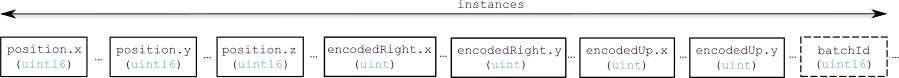
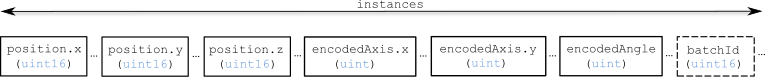
Axis angle changes

Changed region(s): [[0.0, 0.4416, 1.0, 1.0], [0.0, 0.1039, 1.0, 0.2338], [0.451, 0.0, 0.6013, 0.1039]]

diff --git a/TileFormats/Instanced3DModel/README.md b/TileFormats/Instanced3DModel/README.md
@@ -128,10 +128,9 @@ The `instances` field contains `header.instancesLength` of each instance field s
 | `position.x` | `uint16` | The x-coordinate in quantized Cartesian coordinates. | `yes` |
 | `position.y` | `uint16` | The y-coordinate in quantized Cartesian coordinates. | `yes` |
 | `position.z` | `uint16` | The z-coordinate in quantized Cartesian coordinates. | `yes` |
-| `rightEncoded.x` | `uint` | The first component of the oct-encoded vector `right`. | `yes` |
-| `rightEncoded.y` | `uint` | The second component of the oct-encoded vector `right`. | `yes` |
-| `upEncoded.x` | `uint` | The first component of the oct-encoded vector `up`. | `yes` |
-| `upEncoded.y` | `uint` | The second component of the oct-encoded vector `up`. | `yes` |
+| `encodedAxis.x` | `uint` | The first component of the oct-encoded `axis` vector. | `yes` |
+| `encodedAxis.y` | `uint` | The second component of the oct-encoded `axis` vector. | `yes` |
+| `encodedAngle` | `uint` | The angle to rotate about the axis from `0` to `2π` scaled to fill a single byte. | `yes` |
 | `batchId` | `uint16` | ID in the range `[0, length of arrays in the Batch Table)`, which indicates the corresponding properties. | `if header.batchTableByteLength > 0`
 
 ### X, Y, and Z for Translation
@@ -142,29 +141,18 @@ Transforming `position` in instance region space to `position_m` in model space 
 
 `position_m` = `offset` + [`position` * `scale` / (`2^16-1`)].
 
-### Up and Right for Rotation
+### Axis and Angle for Rotation
 
-`up` and `right` are stored as two components in oct-encoded format as described in
+`encodedAxis` is stored as two components in oct-encoded format as described in
 [*A Survey of Efficient Representations of Independent Unit Vectors* by Cigolle et al.](http://jcgt.org/published/0003/02/01/)
 The [AttributeCompression](https://github.com/AnalyticalGraphicsInc/cesium/blob/master/Source/Core/AttributeCompression.js)
 module in Cesium contains an implementation for encoding and decoding vectors in this fashion.
 
-In their decoded form, `right` and `up` establish a new orthonormal basis, effectively rotating the coordinate system.
+`encodedAngle` is the rotation about the axis, from `0` to `2π` scaled to a range of `0` to `255`. It can be decoded to using the formula:
 
-The `x` and `y` vectors in the natural basis are transformed to map onto `right` and `up` respectively.
+`decodedAngle = encodedAngle * 2π / 255.0`.
 
-**Figure 3:** A 3D box in the natural basis
-
-![](figures/box-unit-basis.png)
-
-**Figure 4:** A 3D box in a rotated basis
-
-![](figures/box-rotated-basis.png)
-
-The mapping for `z` onto `forward` can be omitted since it will be the cross product of `right` and `up`.
-
-A rotation matrix can be created from `right`, `up`, and `forward`=`right`x`up` by placing `right` into the first column,
-`up` into the second column, and `forward` into the third column.
+This format can be easily converted to a quaternion or [a rotation matrix](#creating-a-rotation-matrix-for-an-instance).
 
 ### Scaling using TILES3D_SCALE and TILES3D_NON_UNIFORM_SCALE
 
@@ -187,11 +175,13 @@ _TODO, [#60](https://github.com/AnalyticalGraphicsInc/3d-tiles/issues/60)_
 
 `application/octet-stream`
 
+## Resources
+
 ## Implementation Examples
 
 ### Cesium
 
-#### Generating Right and Up Vectors from Longitude, Latitude, and Height
+#### Generating Axis-Angle Rotation from Longitude, Latitude, and Height
 
 ```javascript
 var position = Cartesian3.fromRadians(longitude, latitude, height);
@@ -205,7 +195,7 @@ Matrix4.getRotation(transform, rotation);
 // In east-north-up, the up vector is stored in the z component
 Matrix3.multiplyByVector(rotation, Cartesian3.UNIT_Z, up);
 
-// Compute the right vector
+// Compute the right and forward vectors
 var right = new Cartesian3();
 var forward = Cartesian3.clone(Cartesian3.UNIT_Z);
 
@@ -219,28 +209,43 @@ Matrix3.multiplyByVector(orient, forward, forward);
 Cartesian3.cross(up, forward, right);
 Cartesian3.normalize(right, right);
 
-var encodedUp = new Cartesian2();
-AttributeCompression.octEncode(up, encodedUp);
+// Place the basis we just created into a rotation matrix
+var rotation = new Matrix3();
+Matrix3.setColumn(rotation, 0, right, rotation);
+Matrix3.setColumn(rotation, 1, up, rotation);
+Matrix3.setColumn(rotation, 2, forward, rotation);
 
-var encodedRight = new Cartesian2();
-AttributeCompression.octEncode(right, encodedRight);
+// Convert to a quaternion
+var quaternion = new Quaternion();
+Quaternion.fromRotationMatrix(rotation, quaternion);
+
+// Convert quaternion to axis angle
+var axis = new Cartesian3();
+Quaternion.computeAxis(quaternion, axis);
+var angle = Quaternion.computeAngle(quaternion);
+
+// Encode the axis and angle
+var encodedAxis = new Cartesian2();
+AttributeCompression.octEncode(axis, encodedAxis);
+var encodedAngle = Math.round(angle * 255.0 / (2.0 * Math.PI));
 ```
 
 #### Creating a Rotation Matrix for an Instance
 
 ```javascript
-// Decode compressed normals
-AttributeCompression.octDecode(rightEncodedX, rightEncodedY, normalRight);
-AttributeCompression.octDecode(upEncodedX, upEncodedY, normalUp);
+// Decode compressed axis
+var axis = new Cartesian3();
+AttributeCompression.octDecode(encodedAxis.x, encodedAxis.y, axis);
 
-// Compute third normal
-Cartesian3.cross(normalRight, normalUp, normalForward);
+// Decode angle
+var angle = angle * (2.0 * Math.PI)/ 255.0;
 
-// Place the basis into the rotation matrix
-Matrix3.setColumn(rotation, 0, normalRight, rotation);
-Matrix3.setColumn(rotation, 1, normalUp, rotation);
-Matrix3.setColumn(rotation, 2, normalForward, rotation);
+// Create quaternion from axis angle
+var quaternion = new Quaternion();
+Quaternion.fromAxisAngle(axis, angle, quaternion);
+
+// Convert to a rotation matrix
+var rotation = new Matrix3();
+Matrix3.fromQuaternion(quaternion, rotation);
 ```
-
-## Resources
 
